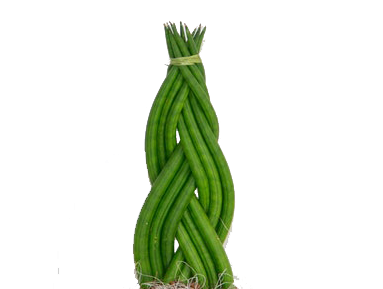
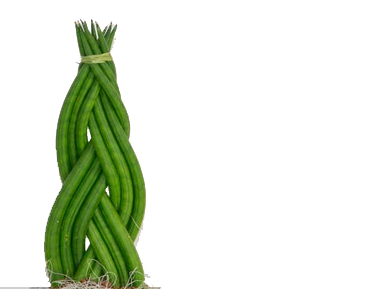
merapikan dan ganti foto

diff --git a/home.html b/home.html
@@ -15,26 +15,24 @@
 </head>
 
 <body>
-  <div class="row">
-    <div class="col-2">
-      <h5 style="transform: rotate(270deg); position: absolute; top: 45%; left: 65%; color: orange;">how to</h5>
-    </div>
-    <div class="col-10">
-      <h1 class="display-1">SAVE OUR PLANET</h1>
-    </div>
-  </div>
-
-
   <AA>
     <div class="row">
+      <div class="col-2">
+        <h5 style="transform: rotate(270deg); position: absolute; top: 45%; left: 65%; color: orange;">how to</h5>
+      </div>
+      <div class="col-10">
+        <h1 class="display-1">SAVE OUR PLANET</h1>
+      </div>
+    </div>
+    
+    <div class="row">
       <div class="d-none d-md-block d-lg-block col-md-6 col-lg-4 bner" style="position: relative;">
-
-        <img src="bibit.png" alt="bibit" style="position: absolute; top: 0; left: 4%;">
+        <img src="bibit.png" alt="bibit" style="position: absolute; top: 0; left: 0;">
         <div class="slid"
-          style="height: 289px; width: 383px; position: absolute; top: 0; left: 4%; background-color: chartreuse; opacity: .4; display: none;">
+          style="height: 289px; width: 383px; position: absolute; top: 0; left: 0; background-color: chartreuse; opacity: .4; display: none;">
         </div>
         <div class="slid bg-transparent"
-          style="height: 289px; width: 383px; position: absolute; top: 0; left: 4%; display: none;">
+          style="height: 289px; width: 383px; position: absolute; top: 0; left: 0; display: none;">
           <h1 style="transform: rotate(270deg); position: absolute; right: -30%; top: 0; bottom: 0;">SAVE ME!</h1>
         </div>
       </div>
@@ -42,8 +40,8 @@
         <div class="row">
           <div class="col-12 col-lg-6">
             <div class="row">
-              <div class="col-1" style="font-size: 23px;"><i class="fas fa-shopping-bag"></i></div>
-              <div class="col-11">
+              <div class="col-2" style="font-size: 23px;"><i class="fas fa-shopping-bag"></i></div>
+              <div class="col-10">
                 <div class="h3"><span style="color: red;">Don't USE</span> PLASTIC</div>
                 Lorem, ipsum dolor sit amet consectetur adipisicing elit. Tenetur optio ab, rem
                 dicta ipsam, architecto pariatur laudantium provident inventore vitae dolorum eos ipsum nesciunt debitis
@@ -51,8 +49,8 @@
               </div>
             </div>
             <div class="row">
-              <div class="col-1" style="font-size: 23px;"><i class="far fa-lightbulb"></i></div>
-              <div class="col-11">
+              <div class="col-2" style="font-size: 23px;"><i class="far fa-lightbulb"></i></div>
+              <div class="col-10">
                 <div class="h3">Please! <span style="color: greenyellow;">SAVE</span> ENERGY</div>
                 Lorem, ipsum dolor sit amet consectetur adipisicing elit. Tenetur optio ab, rem
                 dicta ipsam, architecto pariatur laudantium provident inventore vitae dolorum eos ipsum nesciunt debitis
@@ -62,8 +60,8 @@
           </div>
           <div class="col-12 col-lg-6">
             <div class="row">
-              <div class="col-1" style="font-size: 23px;"><i class="fas fa-broom"></i></div>
-              <div class="col-11">
+              <div class="col-2" style="font-size: 23px;"><i class="fas fa-broom"></i></div>
+              <div class="col-10">
                 <div class="h3">STAY <span style="color: yellow;">CLEAN</span></div>
                 Lorem, ipsum dolor sit amet consectetur adipisicing elit. Tenetur optio ab, rem
                 dicta ipsam, architecto pariatur laudantium provident inventore vitae dolorum eos ipsum nesciunt debitis
@@ -71,8 +69,8 @@
               </div>
             </div>
             <div class="row">
-              <div class="col-1" style="font-size: 23px;"><i class="fas fa-recycle"></i></div>
-              <div class="col-11">
+              <div class="col-2" style="font-size: 23px;"><i class="fas fa-recycle"></i></div>
+              <div class="col-10">
                 <div class="h3"><span style="color: blue;">reDUCE, reUSE, & reCYCLE</span></div>
                 Lorem, ipsum dolor sit amet consectetur adipisicing elit. Tenetur optio ab, rem
                 dicta ipsam, architecto pariatur laudantium provident inventore vitae dolorum eos ipsum nesciunt debitis
